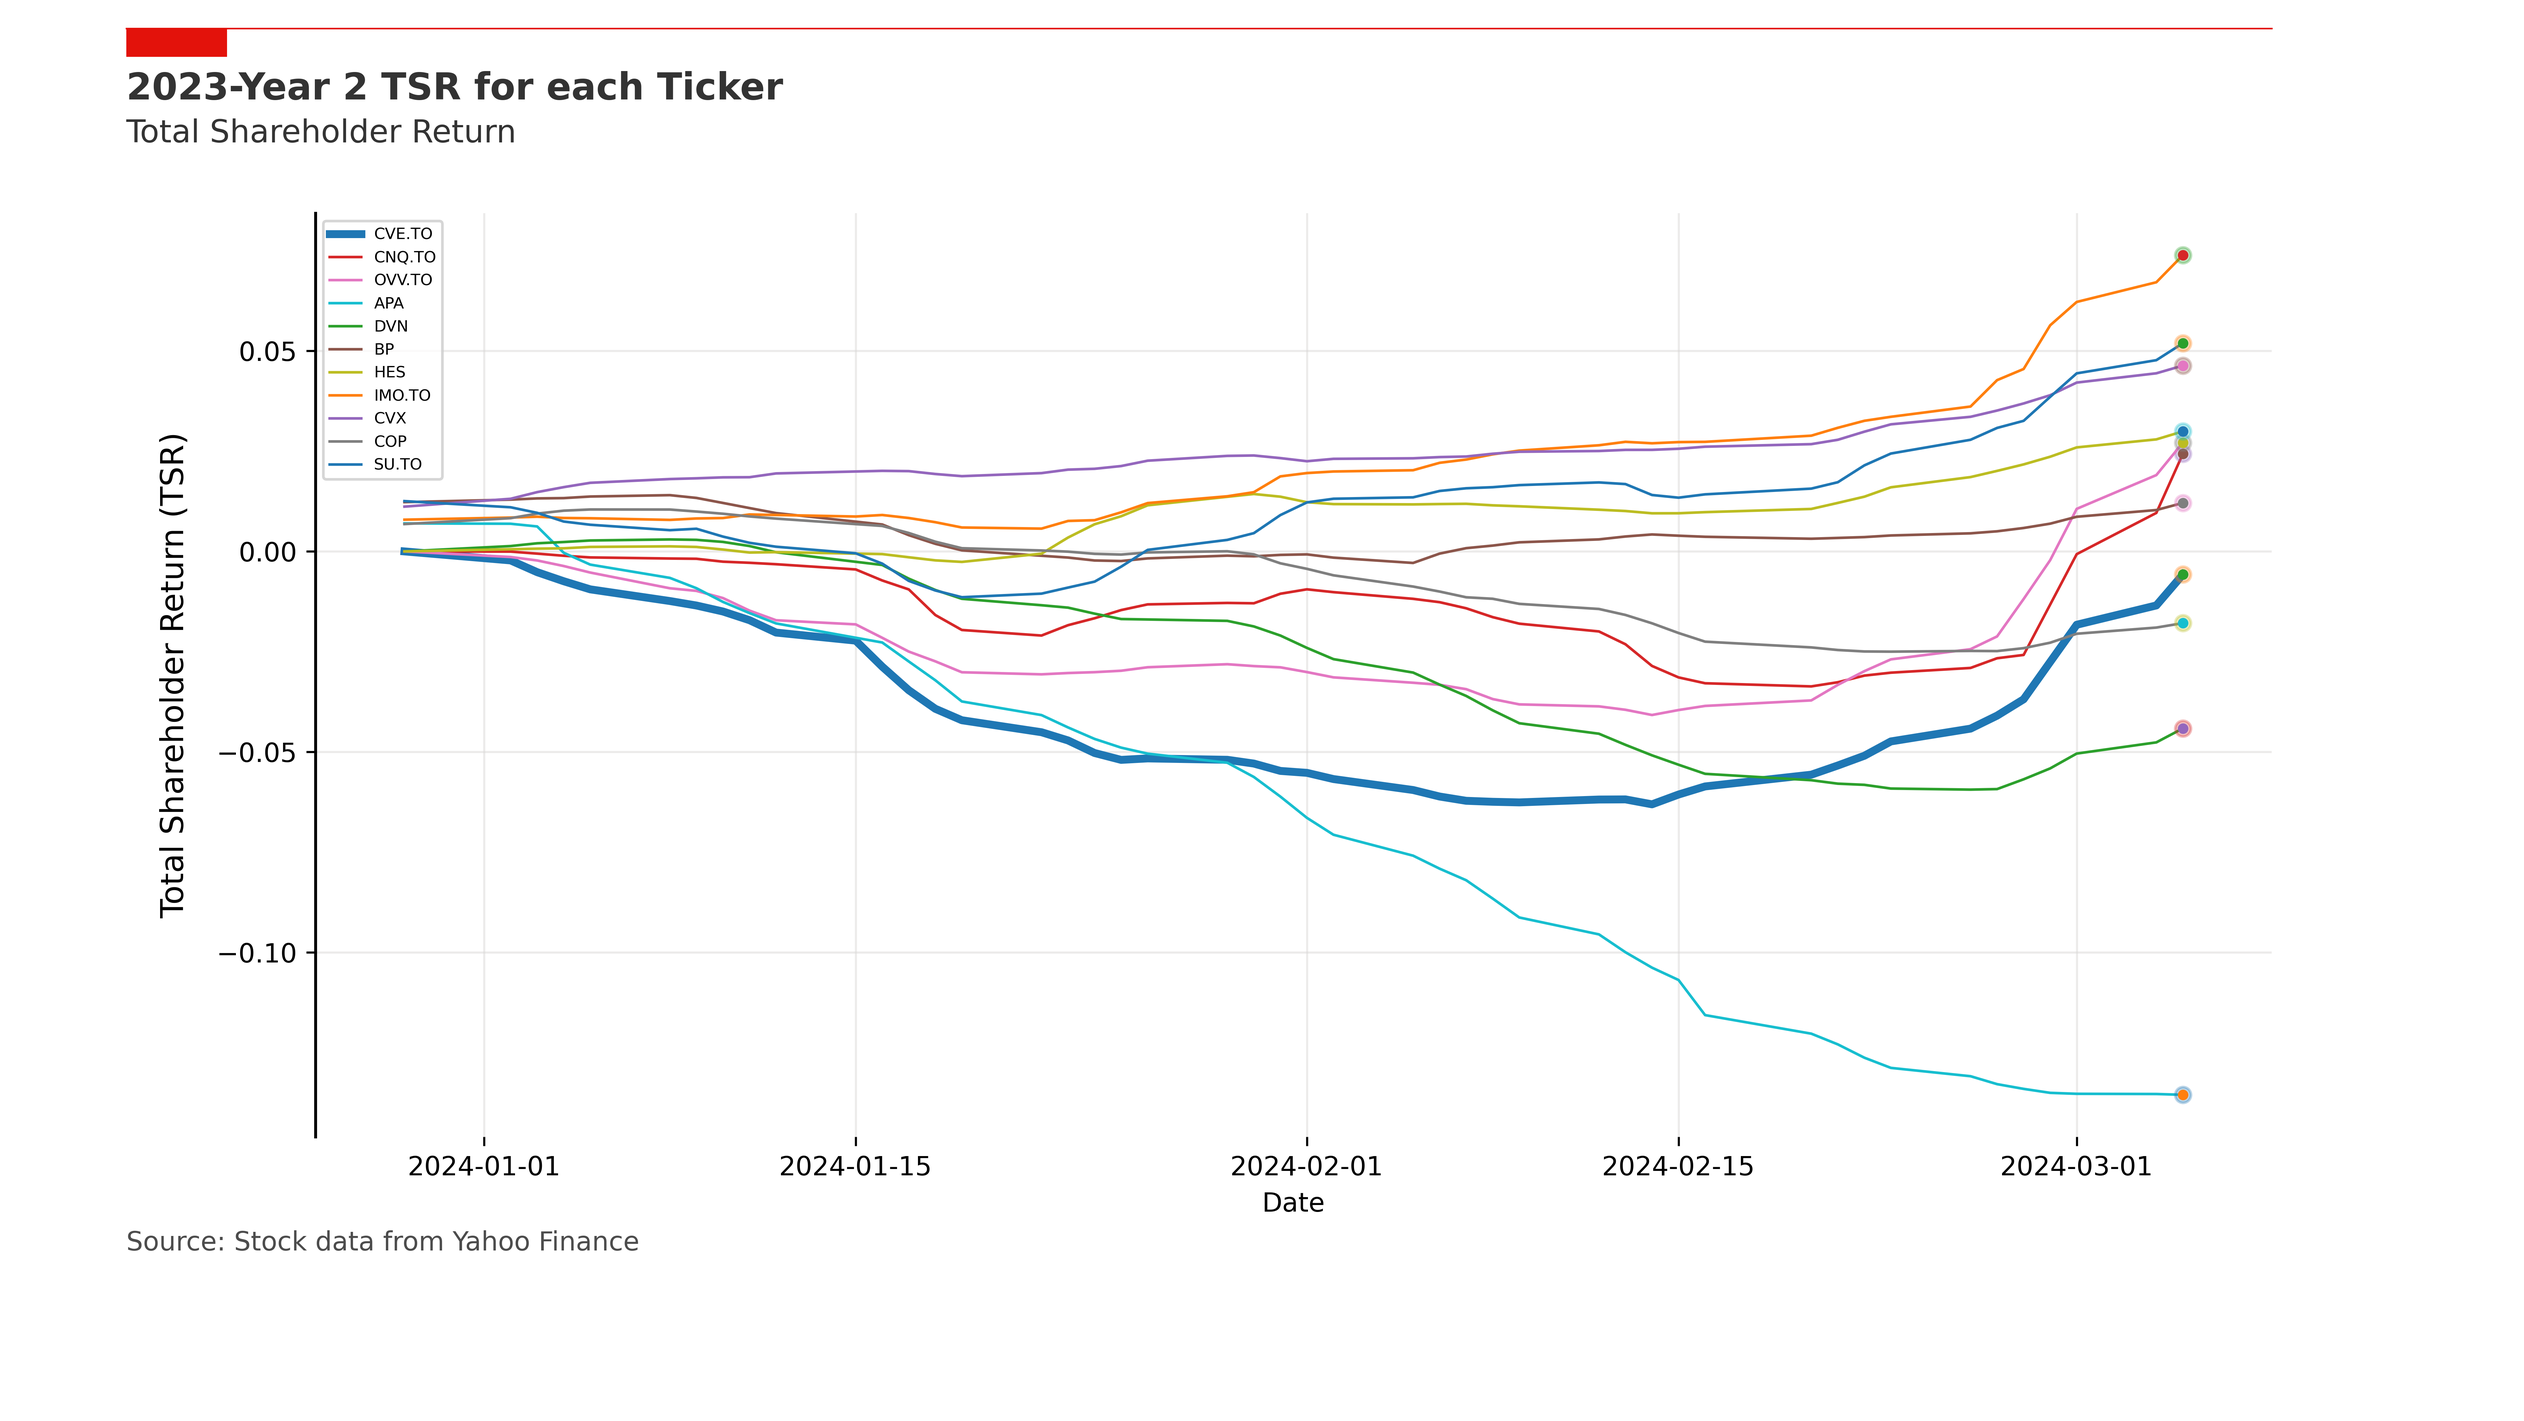
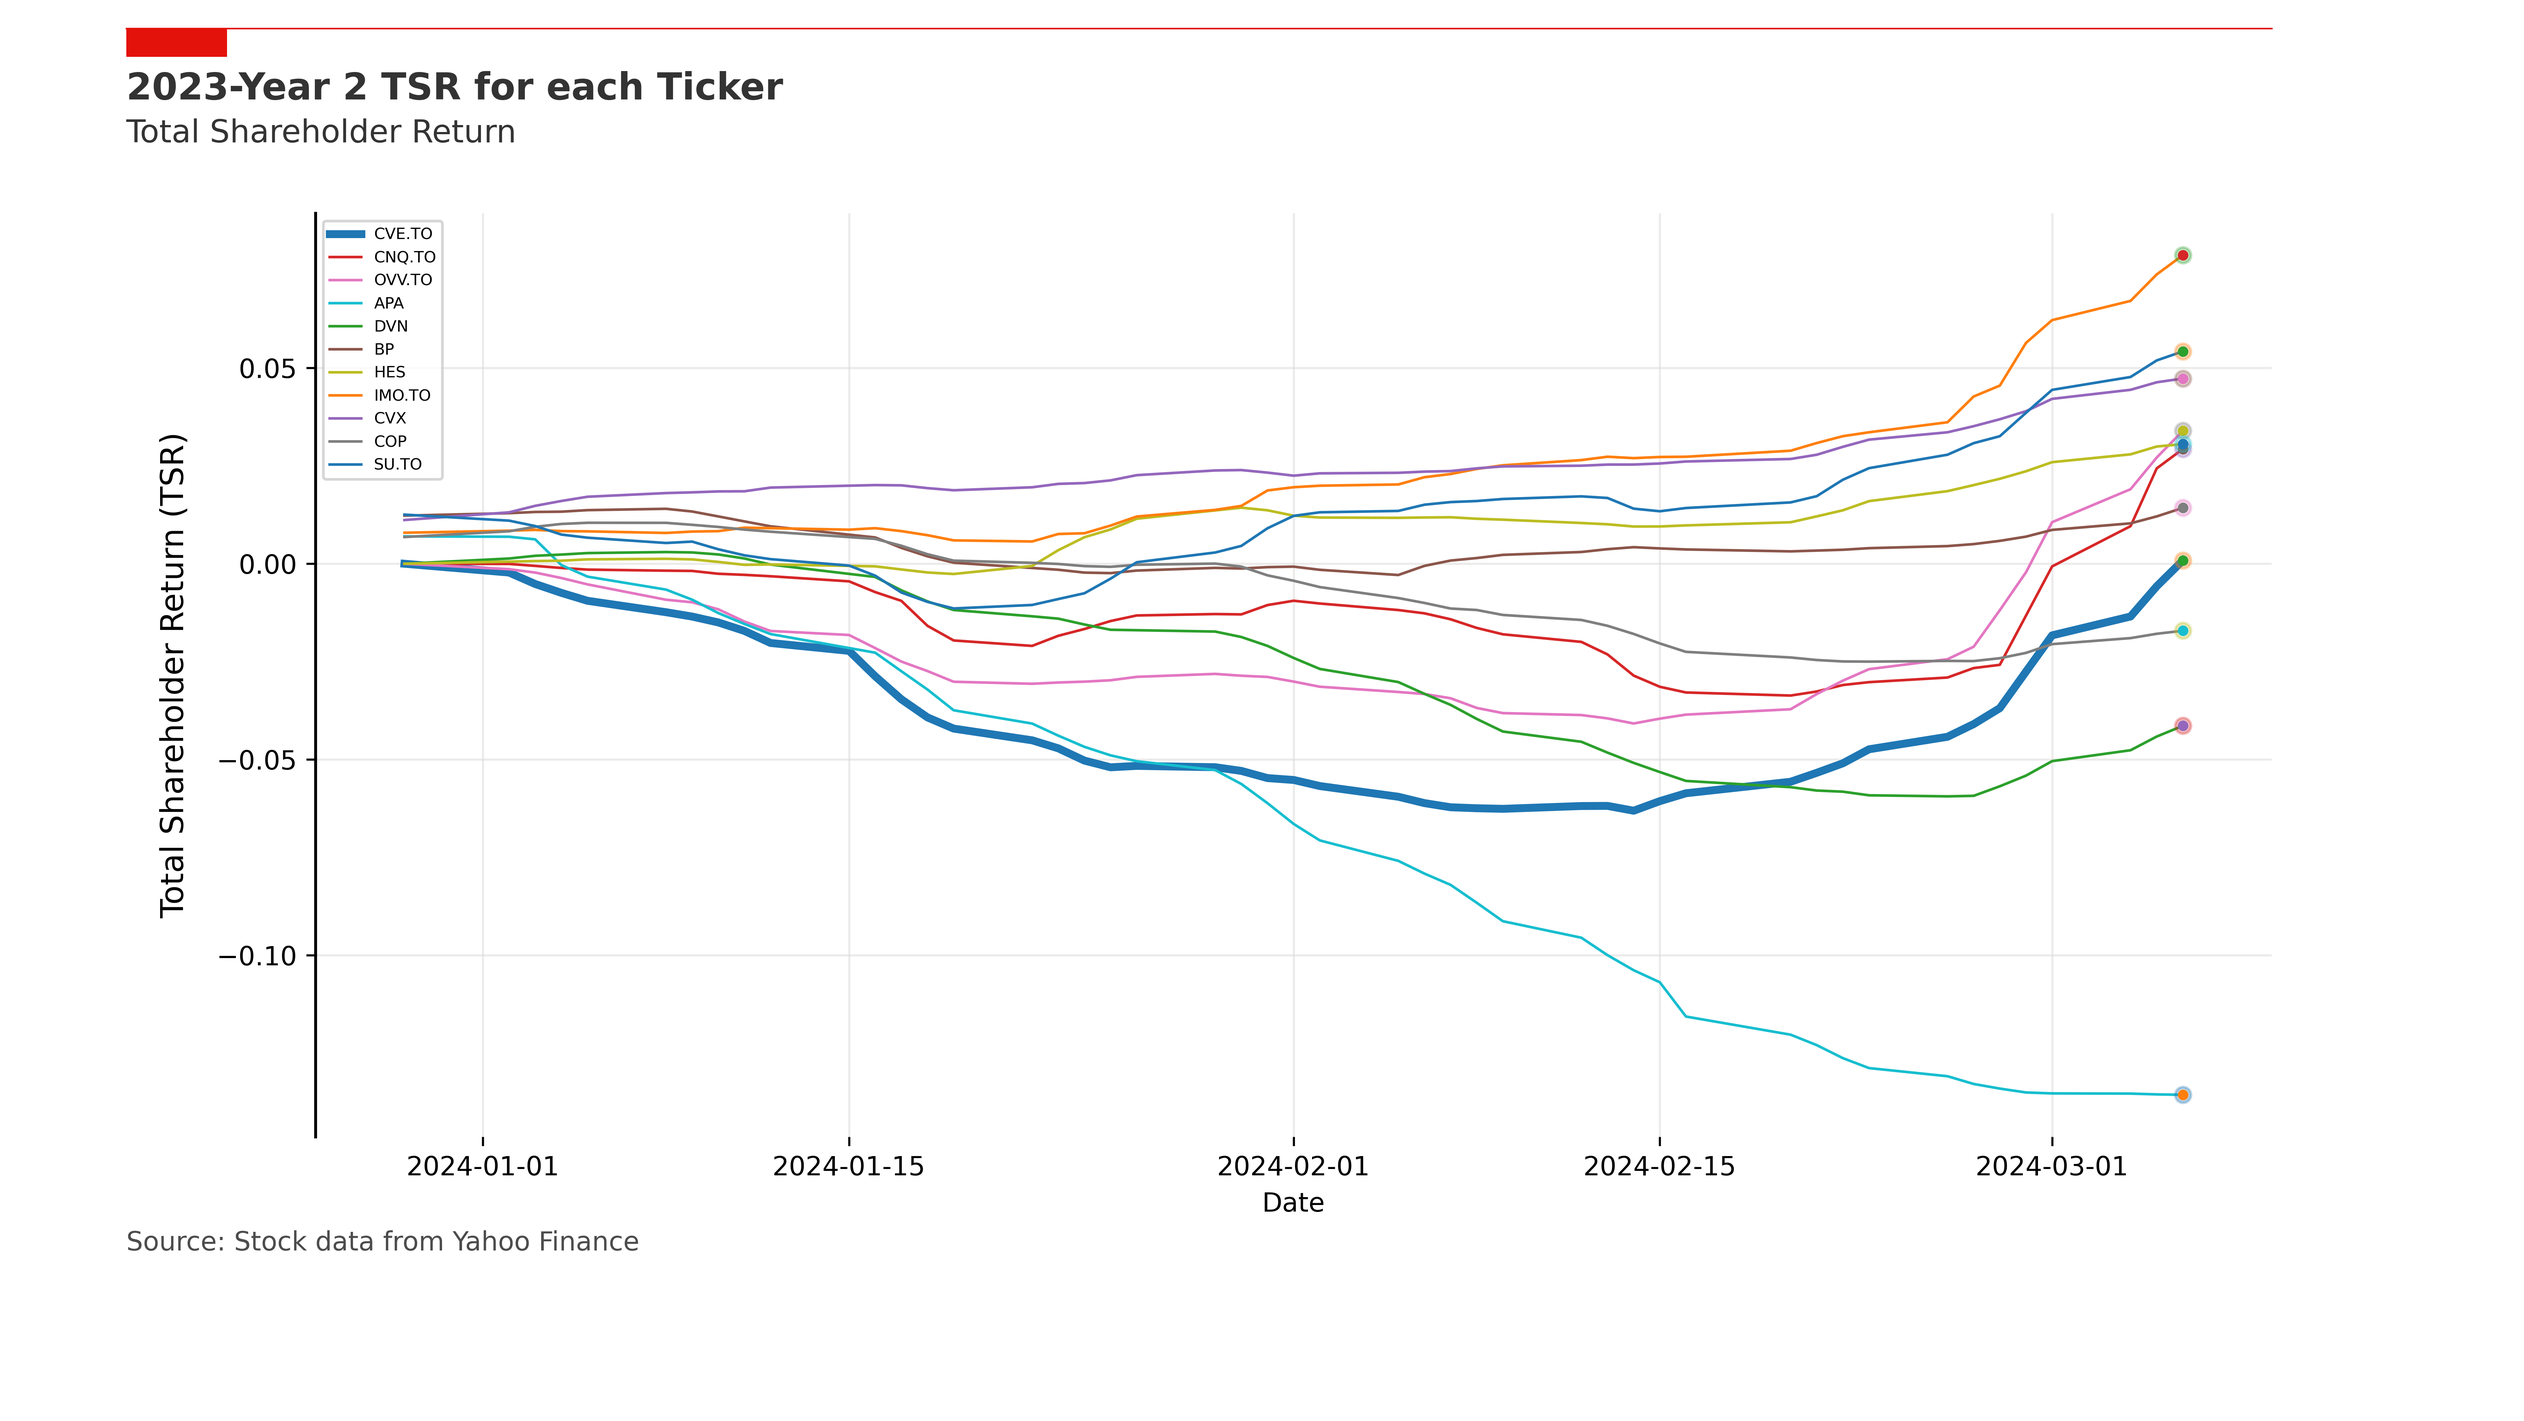
added primary_ticker config item via config.ini

diff --git a/RankTSR.py b/RankTSR.py
@@ -115,7 +115,7 @@ def calculate_tsr(tickers, price_data_df, dividend_data_df, start_date, end_date
         ending_vwap_date = ending_vwap.index[0]
         ending_vwap = ending_vwap['VWAP'].values[0]
 
-        # Calculate the total amount of dividends issued over the period for CVE
+        # Calculate the total amount of dividends issued over the period for primary_ticker
         dividends_total = dividend_data_df[(dividend_data_df['Ticker'] == ticker) &
                                            (dividend_data_df.index >= start_date) &
                                            (dividend_data_df.index <= end_date)]['Dividends'].sum()
@@ -126,7 +126,7 @@ def calculate_tsr(tickers, price_data_df, dividend_data_df, start_date, end_date
         # Append the ticker and TSR to the list
         tsr_list.append([ticker, starting_vwap, ending_vwap, dividends_total, tsr])
 
-        if ticker == 'CVE.TO':
+        if ticker == primary_ticker:
             # print starting and ending VWAP and dates
             print(ticker + ' starting VWAP date: ' +
                   starting_vwap_date.strftime("%Y-%m-%d") + ' VWAP: ' + str(starting_vwap))
@@ -143,7 +143,7 @@ def calculate_tsr(tickers, price_data_df, dividend_data_df, start_date, end_date
     return tsr_list
 
 
-def plot_tsr_ranking(tsr_df, start_date, end_date, CVE_Rank):
+def plot_tsr_ranking(tsr_df, start_date, end_date, primary_Rank):
     """
     Loop through each ticker and plot the tsr values
     """
@@ -175,13 +175,13 @@ def plot_tsr_ranking(tsr_df, start_date, end_date, CVE_Rank):
     ax.text(x=0.05, y=0.05, s="Source: Stock data from Yahoo Finance",
             transform=fig.transFigure, ha='left', fontsize=10, alpha=.7)
 
-    # mark CVE.TO on the chart
-    plt.plot('CVE.TO', tsr_list.loc[tsr_list['Ticker'] == 'CVE.TO', 'TSR'].values[0],
+    # mark primary_ticker on the chart
+    plt.plot(primary_ticker, tsr_list.loc[tsr_list['Ticker'] == primary_ticker, 'TSR'].values[0],
              marker='o', color='red', markersize=6, alpha=0.3)
-    plt.plot('CVE.TO', tsr_list.loc[tsr_list['Ticker'] == 'CVE.TO', 'TSR'].values[0],
+    plt.plot(primary_ticker, tsr_list.loc[tsr_list['Ticker'] == primary_ticker, 'TSR'].values[0],
              marker='o', color='red', markersize=3)
-    plt.text('CVE.TO', tsr_list.loc[tsr_list['Ticker'] == 'CVE.TO', 'TSR'].values[0],
-             '   CVE.TO percentile is ' + f"{CVE_Rank:.2f}%", fontsize=10, color='black')
+    plt.text(primary_ticker, tsr_list.loc[tsr_list['Ticker'] == primary_ticker, 'TSR'].values[0],
+             '   ' + primary_ticker + ' percentile is ' + f"{primary_Rank:.2f}%", fontsize=10, color='black')
 
     # save the chart to a file
     plt.savefig('charts/tsr_chart_' + tsr_period[0] + '.png', dpi=600)
@@ -191,7 +191,7 @@ def plot_tsr_ranking(tsr_df, start_date, end_date, CVE_Rank):
     return plt
 
 
-def plot_tsr_timeline(ticker_data, period):
+def plot_tsr_timeline(ticker_data, primary_ticker, period):
     """
     Loop through each ticker and plot the tsr values on a figure
     """
@@ -204,7 +204,7 @@ def plot_tsr_timeline(ticker_data, period):
     # Loop through each ticker and plot the tsr values
     for ticker in ticker_data['Ticker'].unique():
         plot_data = ticker_data[ticker_data['Ticker'] == ticker]
-        if ticker == 'CVE.TO':
+        if ticker == primary_ticker:
             line_width = 3
         else:
             line_width = 1
@@ -279,18 +279,8 @@ def percent_rank(arr, score, sig_digits=8):
 
 if __name__ == "__main__":
     '''
-        The list peer of companies:
-            Cenovus Energy Corporation (CVE.TO)
-            Apache Corporation (APA)
-            Devon Energy Corporation (DVN)
-            BP Plc. (BP)
-            Hess Corporation (HES)
-            Canadian Natural Resources Limited (CNQ.TO)
-            Imperial Oil Limited (IMO.TO)
-            Chevron Corporation (CVX)
-            Ovintiv Inc. (OVV.TO)
-            ConocoPhillips (COP)
-            Suncor Energy Inc. (SU.TO)
+    Calculate and print relative performance for each ticker for each period defined in
+    config.ini against the primary_ticker.
     '''
 
     config = configparser.ConfigParser()
@@ -298,6 +288,7 @@ if __name__ == "__main__":
 
     # read the tickers to have the TSR calculated from config.ini
     tickers = ast.literal_eval(config.get("settings", "tickers"))
+    primary_ticker = ast.literal_eval(config.get("settings", "primary_ticker"))
 
     # read the periods to have the TSR calculated from config.ini
     tsr_periods = ast.literal_eval(config.get("settings", "tsr_periods"))
@@ -345,36 +336,37 @@ if __name__ == "__main__":
                            f"{row['TSR']:.4f}"])
         print(table)
 
-        # calculate the percentile rank of CVE.TO removing CVE.TO TSR from the list
-        TSRs = tsr_list[tsr_list['Ticker'] != 'CVE.TO']['TSR'].values
-        CVE_TSR = tsr_list[tsr_list['Ticker'] == 'CVE.TO']['TSR'].values[0]
+        # calculate the percentile rank of primary_ticker removing primary_ticker TSR from the list
+        TSRs = tsr_list[tsr_list['Ticker'] != primary_ticker]['TSR'].values
+        primary_TSR = tsr_list[tsr_list['Ticker'] == primary_ticker]['TSR'].values[0]
 
-        # CVE_Rank = stats.percentileofscore(TSRs, CVE_TSR)/100
-        CVE_Rank = percent_rank(pd.Series(TSRs), CVE_TSR, 3)
+        # primary_Rank = stats.percentileofscore(TSRs, primary_TSR)/100
+        primary_Rank = percent_rank(pd.Series(TSRs), primary_TSR, 3)
 
-        # Interpolate the percentile rank of CVE.TO between the rank above and below
-        if CVE_Rank < 0.9 and CVE_Rank > 0.25:
-            above = tsr_list[tsr_list['TSR'] > CVE_TSR]['TSR'].values.min()
-            below = tsr_list[tsr_list['TSR'] < CVE_TSR]['TSR'].values.max()
-            CVE_Rank += ((CVE_TSR - below) / (above - below))*1/tsr_list['TSR'].count()
-        if CVE_Rank >= 0.90:
-            CVE_Score = 2
-        elif CVE_Rank >= 0.5:
-            CVE_Score = ((CVE_Rank - 0.5) / 0.4) + 1
-        elif CVE_Rank >= 0.25 and CVE_Rank < 0.90:
-            CVE_Score = ((CVE_Rank - 0.25) / 0.25) * 0.75 + 0.25
+        # Interpolate the percentile rank of primary_ticker between the rank above and below
+        if primary_Rank < 0.9 and primary_Rank > 0.25:
+            above = tsr_list[tsr_list['TSR'] > primary_TSR]['TSR'].values.min()
+            below = tsr_list[tsr_list['TSR'] < primary_TSR]['TSR'].values.max()
+            primary_Rank += ((primary_TSR - below) / (above - below))*1/tsr_list['TSR'].count()
+        if primary_Rank >= 0.90:
+            primary_Score = 2
+        elif primary_Rank >= 0.5:
+            primary_Score = ((primary_Rank - 0.5) / 0.4) + 1
+        elif primary_Rank >= 0.25 and primary_Rank < 0.90:
+            primary_Score = ((primary_Rank - 0.25) / 0.25) * 0.75 + 0.25
         else:
-            CVE_Score = 0
+            primary_Score = 0
 
-        # print the TSR vaule from tsr_list for ticker CVE.TO
-        print("The percentile rank for CVE.TO is", f"{CVE_Rank:.3f}%",
-              "and the CVE Score is", f"{CVE_Score:.2f}", "\n\n")
+        # print the TSR vaule from tsr_list for ticker primary_ticker
+        print("The percentile rank for ", f"{primary_ticker}", " is",
+              f"{primary_Rank:.3f}%", "and the ", f"{primary_ticker}",
+              " Score is", f"{primary_Score:.2f}", "\n\n")
 
         # plot the tsr values for this period
         plot_tsr_ranking(tsr_sorted,
                          tsr_period[1].strftime("%Y-%m-%d"),
                          tsr_period[2].strftime("%Y-%m-%d"),
-                         CVE_Rank)
+                         primary_Rank)
 
         # Extact performance start year
         performance_start_year = tsr_period[0][0:4]
@@ -385,8 +377,8 @@ if __name__ == "__main__":
                                     'start': tsr_period[1].strftime("%Y-%m-%d"),
                                     'end': tsr_period[2].strftime("%Y-%m-%d"),
                                     'weighting': tsr_period[3],
-                                    'rank': CVE_Rank,
-                                    'score': CVE_Score})
+                                    'rank': primary_Rank,
+                                    'score': primary_Score})
 
     # print the performance summary
     print("Performance Summary:\n")
@@ -420,7 +412,7 @@ if __name__ == "__main__":
         ticker_data = price_data_df[price_data_df[str(period[0])+'_TSR'].notnull()]
 
         # create the figure plot
-        fig = plot_tsr_timeline(ticker_data, period[0])
+        fig = plot_tsr_timeline(ticker_data, primary_ticker, period[0])
 
         # save the figure to a file
         fig.savefig('charts/tsr_timeline_' + period[0] + '.png', dpi=600)

diff --git a/RankTSRApp.py b/RankTSRApp.py
@@ -21,12 +21,12 @@ warnings.filterwarnings('ignore')
 pn.extension("perspective", design='material')
 
 
-def update_chart_preview(data, period):
+def update_chart_preview(data, primary_ticker, period):
     try:
         chart_preview.loading = True
         # Filter the data to only the period
         ticker_data = data[data[str(period)+'_TSR'].notnull()]
-        axes = plot_tsr_timeline(ticker_data, period)
+        axes = plot_tsr_timeline(ticker_data, primary_ticker, period)
         plt.close(axes.figure)
         chart_preview.object = axes.figure
         chart_table.object = ticker_data
@@ -36,18 +36,7 @@ def update_chart_preview(data, period):
 
 if __name__ == "__main__":
     '''
-        The list peer of companies:
-            Cenovus Energy Corporation (CVE.TO)
-            Apache Corporation (APA)
-            Devon Energy Corporation (DVN)
-            BP Plc. (BP)
-            Hess Corporation (HES)
-            Canadian Natural Resources Limited (CNQ.TO)
-            Imperial Oil Limited (IMO.TO)
-            Chevron Corporation (CVX)
-            Ovintiv Inc. (OVV.TO)
-            ConocoPhillips (COP)
-            Suncor Energy Inc. (SU.TO)
+    Panel App to display TSR performance over defined period
     '''
 
     config = configparser.ConfigParser()
@@ -55,6 +44,7 @@ if __name__ == "__main__":
 
     # read the tickers to have the TSR calculated from config.ini
     tickers = ast.literal_eval(config.get("settings", "tickers"))
+    primary_ticker = ast.literal_eval(config.get("settings", "primary_ticker"))
 
     # read the periods to have the TSR calculated from config.ini
     tsr_periods = ast.literal_eval(config.get("settings", "tsr_periods"))
@@ -85,13 +75,13 @@ if __name__ == "__main__":
         title="TSR Viewer"
     )
 
-    pn.bind(update_chart_preview, data=price_data_df, period=period_widget, watch=True)
+    pn.bind(update_chart_preview, primary_ticker=primary_ticker, data=price_data_df, period=period_widget, watch=True)
 
     try:
         chart_preview.loading = True
         # Filter the data to only the period
         ticker_data = price_data_df[price_data_df[str(period_names[0])+'_TSR'].notnull()]
-        axes = plot_tsr_timeline(ticker_data, period_names[0])
+        axes = plot_tsr_timeline(ticker_data, primary_ticker, period_names[0])
         plt.close(axes.figure)
         chart_preview.object = axes.figure
         chart_table.object = ticker_data

diff --git a/refresh-data.py b/refresh-data.py
@@ -189,18 +189,8 @@ def populate_full_tsr(tickers, price_data_df, dividend_data_df, start_date, end_
 
 if __name__ == "__main__":
     '''
-        The list peer of companies:
-            Cenovus Energy Corporation (CVE.TO)
-            Apache Corporation (APA)
-            Devon Energy Corporation (DVN)
-            BP Plc. (BP)
-            Hess Corporation (HES)
-            Canadian Natural Resources Limited (CNQ.TO)
-            Imperial Oil Limited (IMO.TO)
-            Chevron Corporation (CVX)
-            Ovintiv Inc. (OVV.TO)
-            ConocoPhillips (COP)
-            Suncor Energy Inc. (SU.TO)
+    This script loads data from yfinance and calculates the Total Shareholder Return (TSR)
+    for a list of tickers defined in config.iniover a specified period for each day in the period.
     '''
 
     config = configparser.ConfigParser()

diff --git a/README.md b/README.md
@@ -1,11 +1,13 @@
-Python scripts to calculate the Total Shareholder Return for CVE.TO and compare to 
-a list of it's peers over a defined period.
+Python scripts to calculate the Total Shareholder Return for stocks and compare to 
+a list of peers over a defined period.
 
 refresh_data.py - handles the price data loading, refresh and calculations
 
 RankTSR.py - calculates ranking, outputs performance summary and charts 
 
-Make edits to config.ini to change peers and performance periods
+RankTSR.py - a Panel App to display the TSR performance over a selected period
+
+Make edits to config.ini to change peers, primary_ticker and performance periods
 
 Example output:
 
